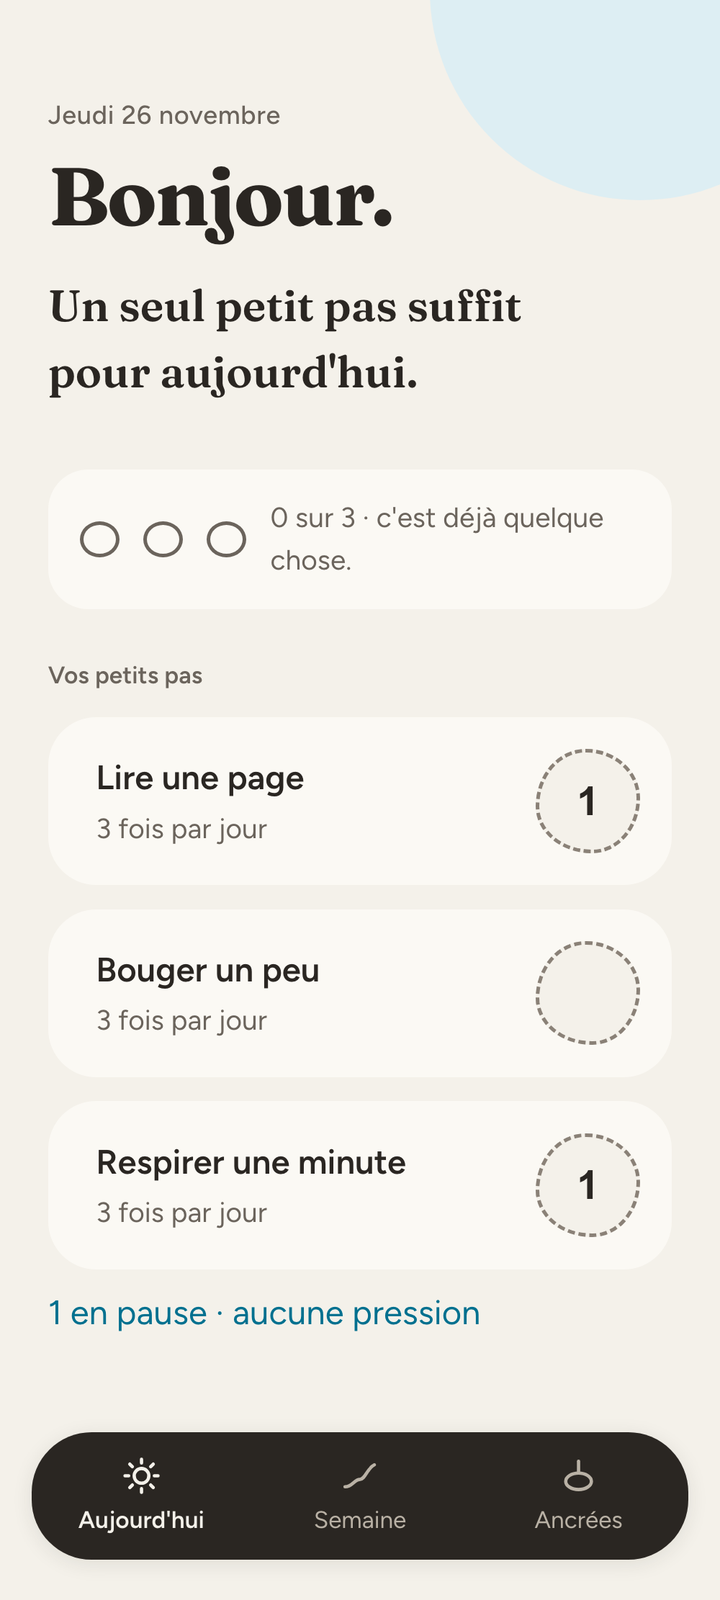
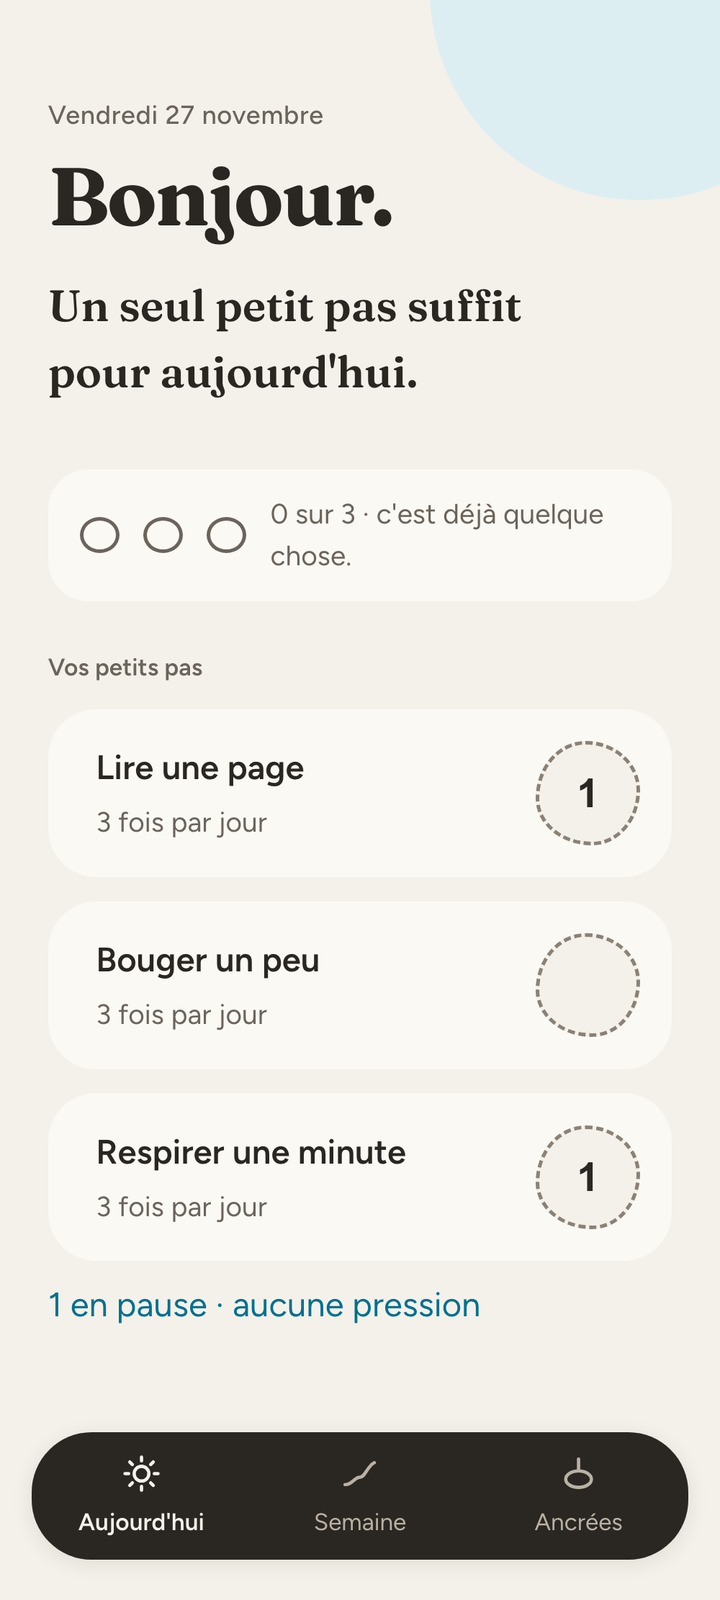
S16: every spacing value sits on the --space-* scale

diff --git a/app/assets/main.css b/app/assets/main.css
@@ -159,7 +159,7 @@ body {
     flex-direction: column;
     align-items: center;
     justify-content: center;
-    gap: 2px;
+    gap: var(--space-1);
     min-width: 64px;
     min-height: 44px;
     font-size: 12px;
@@ -271,7 +271,7 @@ body {
 .quiet-note {
     font-size: 14px;
     color: var(--color-ink-soft);
-    margin: 2px 0 0;
+    margin: var(--space-1) 0 0;
 }
 
 /* ---- Summary card (Today screen) ----
@@ -283,7 +283,7 @@ body {
     display: flex;
     align-items: center;
     gap: var(--space-3);
-    padding: 14px var(--space-4);
+    padding: var(--space-3) var(--space-4);
     background: var(--color-card);
     border-radius: var(--radius-card);
 }
@@ -817,7 +817,7 @@ body {
 }
 
 .action-dock .action-done {
-    gap: 8px;
+    gap: var(--space-2);
 }
 
 .action-done.is-done {
@@ -904,7 +904,7 @@ body {
 .week-card {
     background: var(--color-card);
     border-radius: var(--radius-habit);
-    padding: 18px 20px;
+    padding: var(--space-4);
 }
 
 .pebble-track {
@@ -935,7 +935,7 @@ body {
 /* The practice action: the dock's pill, with its decorative triangle held off
    the label by a gap. */
 .action-primary {
-    gap: 10px;
+    gap: var(--space-2);
     font-size: 17px;
     font-weight: 600;
 }
@@ -966,7 +966,7 @@ body {
 .pace-grid {
     display: grid;
     grid-template-columns: repeat(2, minmax(0, 1fr));
-    gap: 10px;
+    gap: var(--space-3);
 }
 
 .pace-tile {
@@ -974,7 +974,7 @@ body {
     flex-direction: column;
     align-items: center;
     justify-content: center;
-    gap: 2px;
+    gap: var(--space-1);
     min-height: 72px;
     padding: 0;
     border: none;

diff --git a/docs/functional/design/06-style-galets.md b/docs/functional/design/06-style-galets.md
@@ -220,7 +220,6 @@ sur ces points ; ce sont des faits, pas des choix de design.
 | Carte d'Aujourd'hui | seul le nom (`.habit-name`) ouvre le Détail, pas toute la carte, et il n'atteint pas 44dp de haut ; le nom d'une habitude en pause (lien `.habit-name` de l'écran « En pause ») n'en fait qu'environ 25px |
 | Écran Ajouter | un refus (plafond, champ vide, doublon) ne dit rien (`03-ecrans` l. 108) ; pas de formulaire, donc pas de validation par Entrée ; pas de `maxlength` ; le bouton paraît actif sur un champ vide |
 | Notes vivantes | seule la note de refus d'Ancrées porte `role="status"` ; le compte du Détail (`habit_detail.rs:89`, « n fois aujourd'hui ») change aussi après une action, sans `role="status"` |
-| Espacements hors échelle | `main.css` : `gap: 2px` (`.bottom-nav a`, `.pace-tile`), `margin: 2px 0 0` (`.quiet-note`), `padding: 14px` (`.summary-card`), `gap: 8px` (`.action-dock .action-done`, valeur de `--space-2` écrite en dur), `gap: 10px` (`.pace-grid`) |
 | Galet d'Aujourd'hui | l'état éteint de `.pebble` se dessine avec `--color-ink-soft`, pas avec le contour `--color-outline` que la règle des états éteints prescrit |
 | Annuler un pas | rien n'annule une validation faite sur la cible d'Aujourd'hui |
 | Texte à zéro | « 0 sur 3 · c'est déjà quelque chose » sonne ironique quand rien n'est fait |
